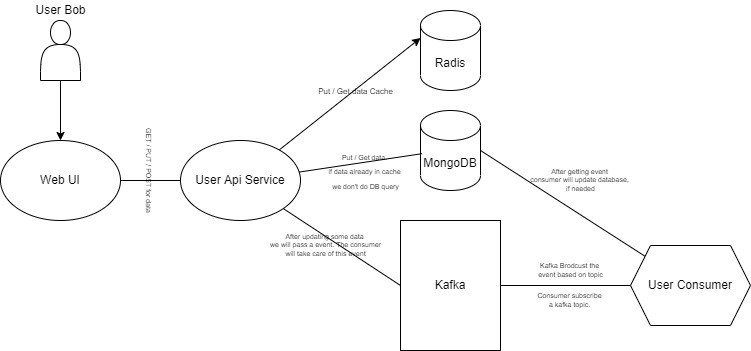
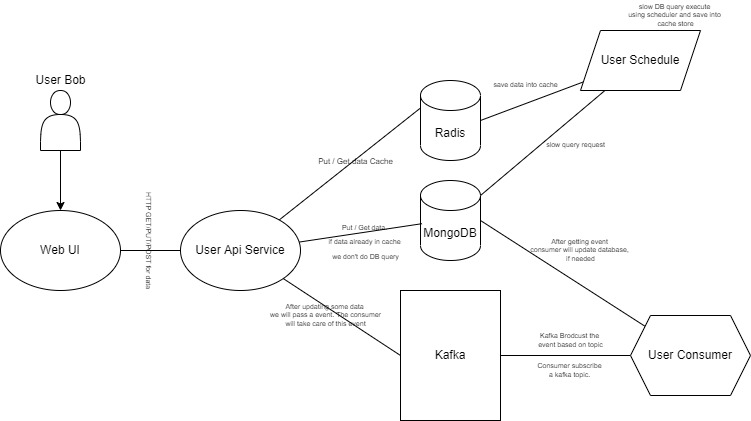
chore: update doc

diff --git a/apps/user/src/main.js b/apps/user/src/main.js
@@ -3,7 +3,8 @@ import expressApp from './app';
 // start express app
 expressApp.startServerSync();
 
-['SIGINT', 'SIGTERM', 'SIGQUIT'].forEach((signal) =>
+
+['SIGINT', 'SIGTERM', 'SIGQUIT', "EADDRINUSE"].forEach((signal) =>
   process.on(signal, () => {
     console.log('Process End');
     process.exit();

diff --git a/README.md b/README.md
@@ -53,6 +53,7 @@ graph TD;
     zookeeper --> 
     kafka -->
     user-create-consumer(User Consumer For kafka) --> 
+    user-schedule(User schedule) --> 
     user(User Service) -->
     web-ui(React Web UI) -->
     management-mongo(Mongo Express);
